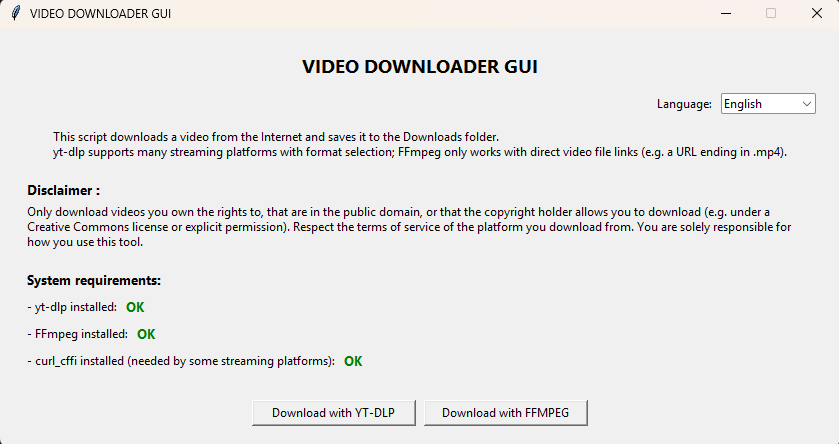
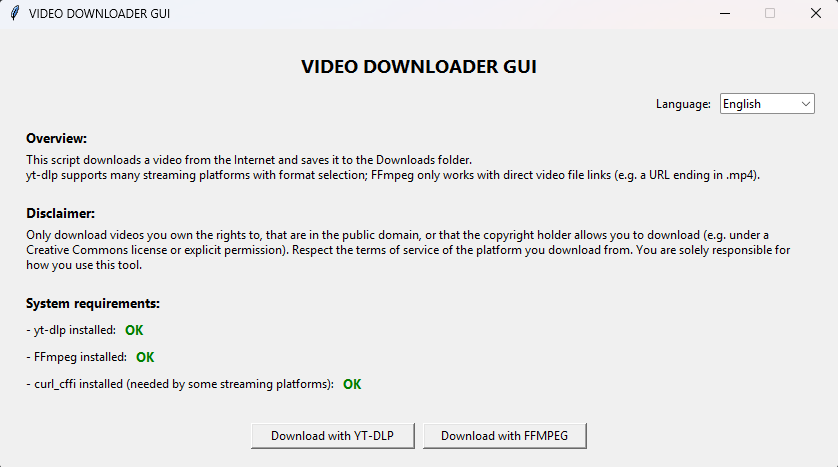
Harmonize introduction screen layout with an Overview subtitle
Adds a bold "Overview"/"Présentation" heading above the intro text so
it visually matches the Disclaimer and System requirements sections.

diff --git a/video_downloader_gui.py b/video_downloader_gui.py
@@ -27,13 +27,14 @@ TRANSLATIONS = {
     "en": {
         "app_title": "VIDEO DOWNLOADER GUI",
         "language_label": "Language:",
+        "intro_overview_title": "Overview:",
         "intro_message": (
             "This script downloads a video from the Internet "
             "and saves it to the Downloads folder.\n"
             "yt-dlp supports many streaming platforms with format selection; "
             "FFmpeg only works with direct video file links (e.g. a URL ending in .mp4)."
         ),
-        "intro_warning_title": "Disclaimer",
+        "intro_warning_title": "Disclaimer:",
         "intro_warning_message": (
             "Only download videos you own the rights to, that are in the public domain, "
             "or that the copyright holder allows you to download (e.g. under a Creative Commons "
@@ -99,13 +100,14 @@ TRANSLATIONS = {
     "fr": {
         "app_title": "VIDEO DOWNLOADER GUI",
         "language_label": "Langue :",
+        "intro_overview_title": "Présentation :",
         "intro_message": (
             "Ce script permet de télécharger une vidéo depuis Internet "
             "et de l'enregistrer dans le dossier Téléchargements.\n"
             "yt-dlp prend en charge de nombreuses plateformes de streaming avec choix des formats ; "
             "FFmpeg fonctionne uniquement avec des liens directs vers un fichier vidéo (ex. une URL se terminant par .mp4)."
         ),
-        "intro_warning_title": "Avertissement",
+        "intro_warning_title": "Avertissement :",
         "intro_warning_message": (
             "Ne télécharger que des vidéos dont vous détenez les droits, qui sont dans le domaine "
             "public, ou dont l'ayant droit autorise le téléchargement (par exemple sous licence "
@@ -396,17 +398,17 @@ class VideosDownloaderApp:
 
         language_combo.bind("<<ComboboxSelected>>", on_language_change)
 
-        tk.Label(frame, text=self.t("intro_message"), wraplength=WINDOW_WIDTH - 60, justify="left").pack(
-            pady=(0, 16)
-        )
+        overview_frame = tk.Frame(frame)
+        overview_frame.pack(fill="x", pady=(0, 16))
+        tk.Label(overview_frame, text=self.t("intro_overview_title"), font=("Segoe UI", 10, "bold")).pack(anchor="w")
+        tk.Label(
+            overview_frame, text=self.t("intro_message"),
+            wraplength=WINDOW_WIDTH - 60, justify="left",
+        ).pack(anchor="w")
 
         warning_frame = tk.Frame(frame)
         warning_frame.pack(fill="x", pady=(0, 16))
-        warning_title_line = tk.Frame(warning_frame)
-        warning_title_line.pack(anchor="w")
-        tk.Label(warning_title_line, text=self.t("intro_warning_title") + " :", font=("Segoe UI", 10, "bold")).pack(
-            side="left"
-        )
+        tk.Label(warning_frame, text=self.t("intro_warning_title"), font=("Segoe UI", 10, "bold")).pack(anchor="w")
         tk.Label(
             warning_frame, text=self.t("intro_warning_message"),
             wraplength=WINDOW_WIDTH - 60, justify="left",
